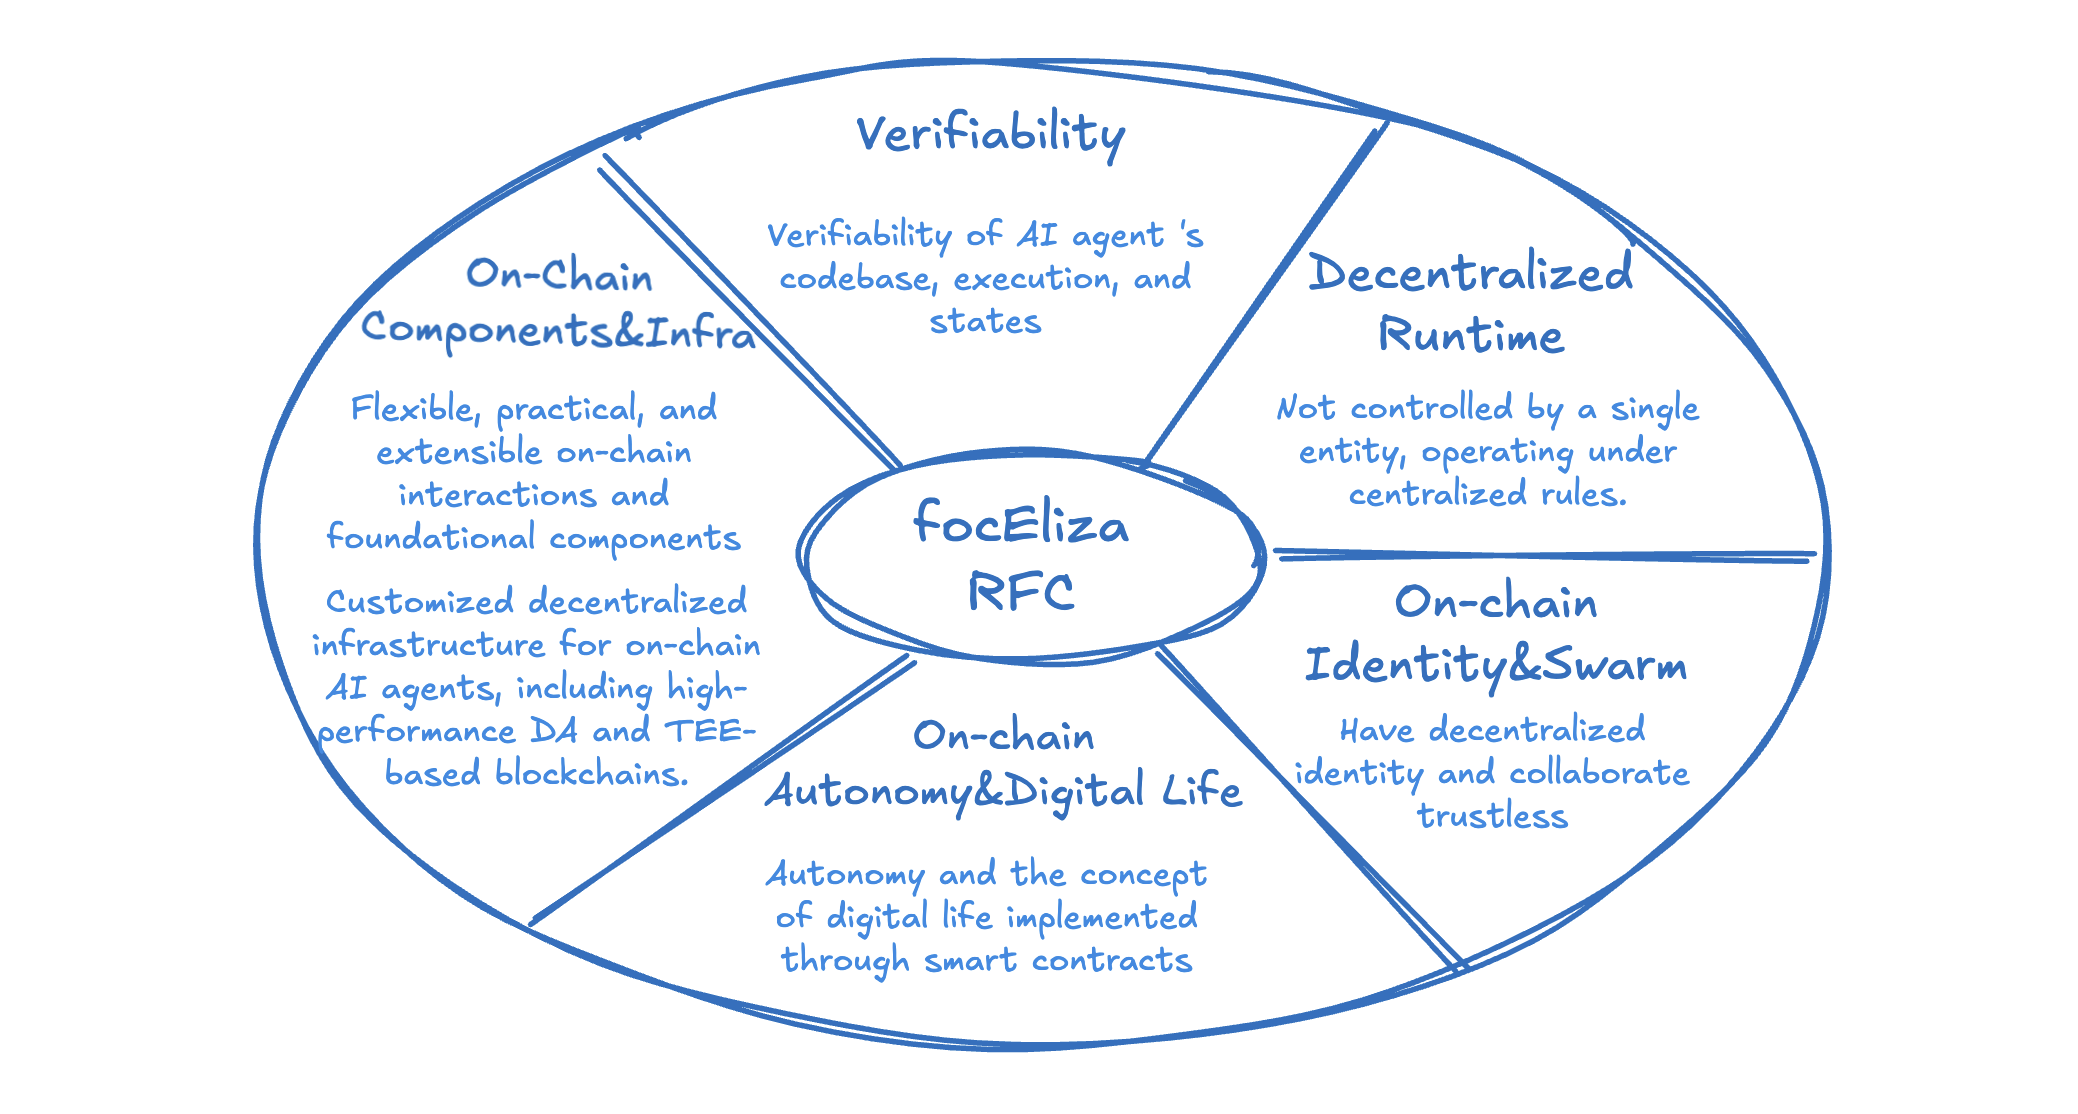
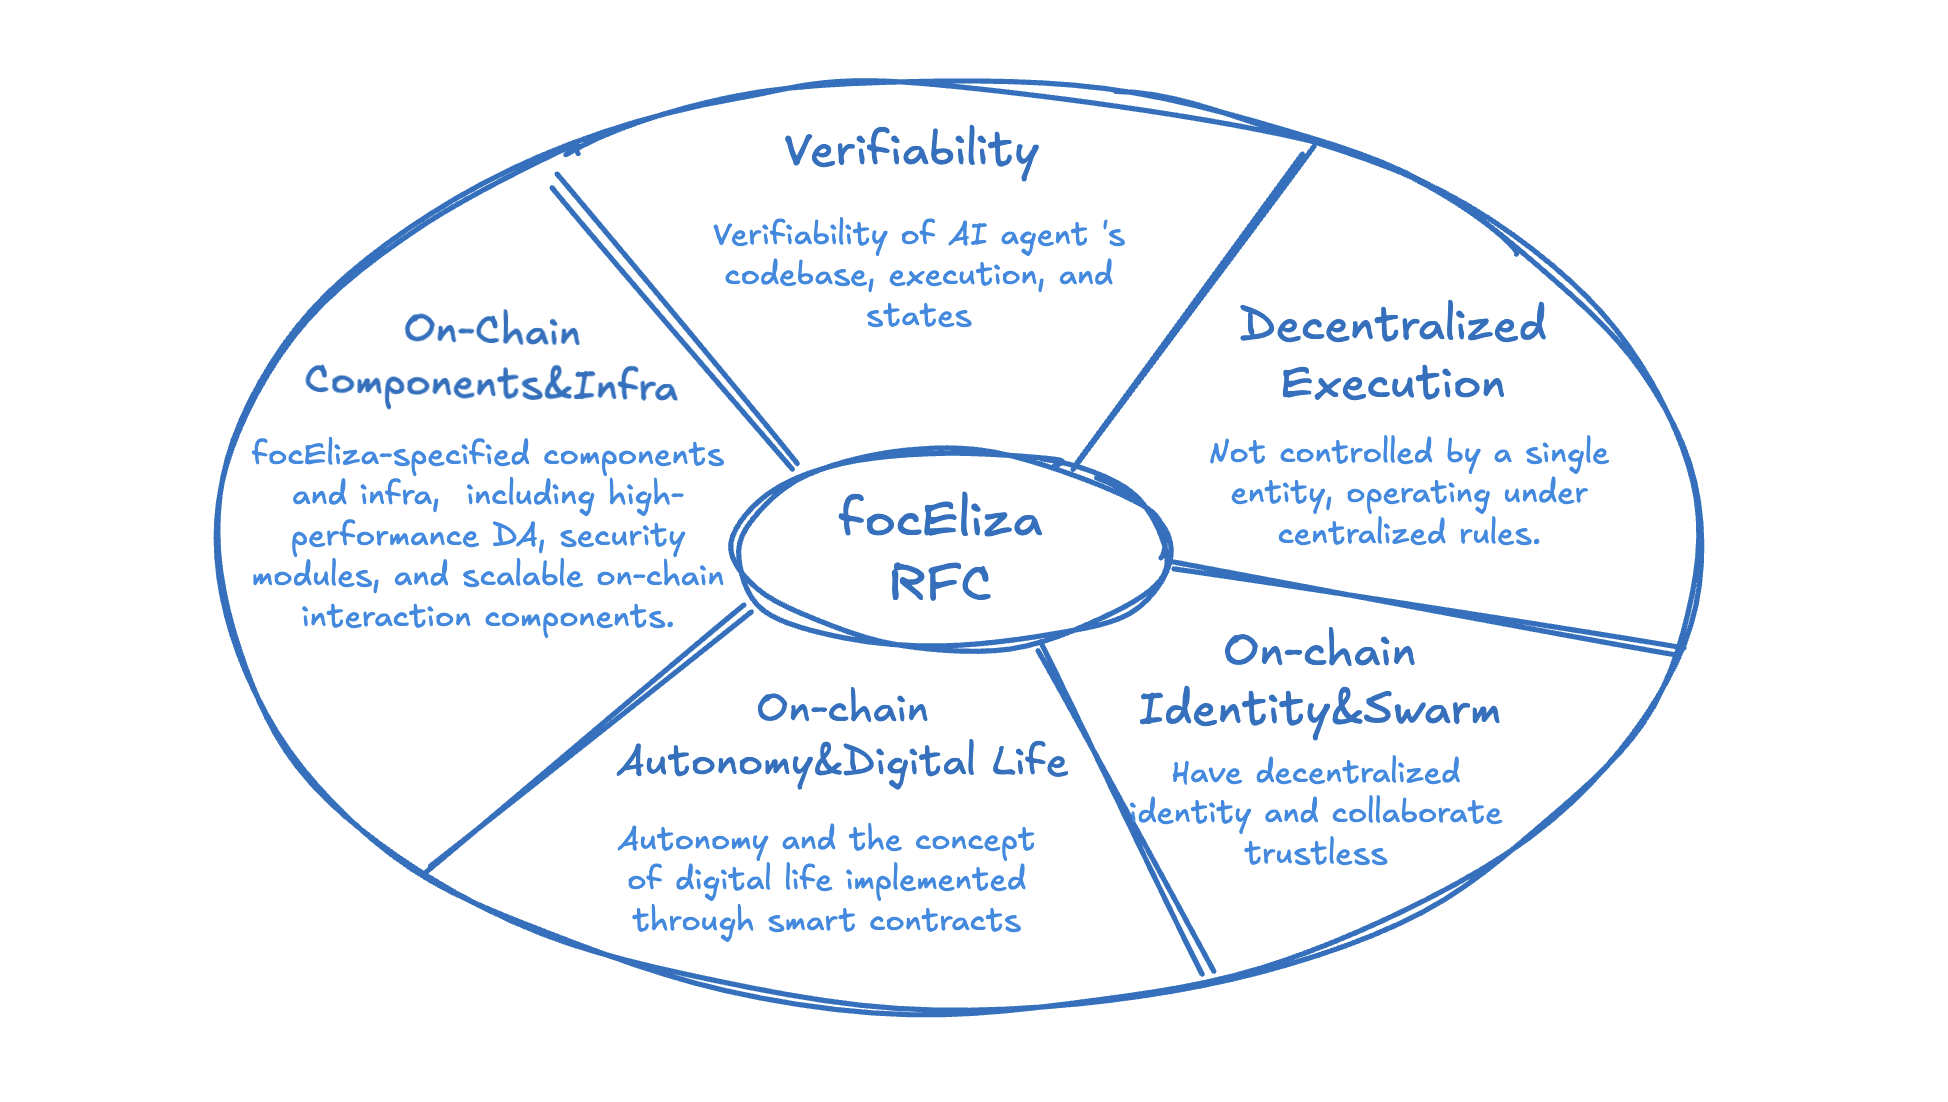
update v1

Changed region(s): [[0.0924, 0.0309, 0.8932, 0.9564]]

diff --git a/README.md b/README.md
@@ -1,7 +1,7 @@
 
 # focEliza RFC
 
-**focEliza Request for Comments (RFC)** is a collection of concepts, protocols, programs, and standards related to Fully On-Chain ElizaOS. RFCs encourage developers, researchers, and the community to engage in discussions and propose improvements, aiming to establish widely applicable on-chain components for ElizaOS.
+**focEliza Request for Comments (RFC)** is a collection of concepts, component designs, protocols, and standards related to Fully On-Chain ElizaOS. RFCs encourage developers, researchers, and the community to engage in discussions and propose improvements, aiming to establish widely applicable on-chain components for ElizaOS.
 
 
 
@@ -23,22 +23,25 @@ However, the relationship between AI agents and blockchain remains limited to AI
 
 ## Scope of focEliza RFC v1
 
-The focEliza RFC v1 will accelerate the on-chain progress of ElizaOS AI agents from the following six aspects:
+The focEliza RFC v1 will accelerate the on-chain progress of ElizaOS AI agents from the following five aspects:
 
 ![img](img1.png)
 
 
 
 ### 1. Verifiability
-Verifiability is the foundation of decentralized applications. Without verifiable computation, decentralization is meaningless. AI agent verifiability is critical for trustless collaboration with other agents or users.
 
-AI agents will drive advancements in verifiable computation, with TEE being the most viable short-term solution. Previously, TEE was used in specific blockchain components, such as the MEV execution environment of Flashbots. Now, it will become the preferred execution environment for AI agents. Designing TEE components tailored to AI agents will enhance their verifiability, establishing the foundation for trustless collaboration.
+In this document, **verifiability of AI Agents** refers to the ability of participants (including users, developers, or other agents) to verify the autonomous behaviors, decision-making processes, and execution outcomes of AI agents, as well as to ensure that they operate in compliance with predefined rules and protocols. This capability is fundamental to establishing trust, accountability, and reliability in interactions involving AI agents.
+
+To achieve verifiability, verifiable computation technology is required. Although verifiable computation is not yet fully mature, TEE currently serves as the most effective short-term solution. Some of its functionalities can also complement and enhance technologies like zk and MPC. TEE has been used in specific blockchain components, such as the MEV execution environment in Flashbots. RFC V1 will adopt this practical and widely accepted approach.
+
+The verifiability of the AI agent framework itself is a key focus of V1 exploration. However, the verifiability of LLMs is a more in-depth topic and is currently outside the scope of V1 exploration.
 
 
 
-V1 will explore the following concepts:
+**V1 will explore the following features:**
 
-- **TEE**: AI agents will operate within a TEE environment to achieve codebase verifiability.
+- **Verifiable Codebase**: AI agents will operate within a TEE environment to achieve codebase verifiability.
 - **Verifiable Logs**: Every action performed by the AI agent will be signed and stored as verifiable logs, allowing third parties to understand what the AI agent has executed.
 - **Verifiable States**: The AI agent's operational state will be verifiable by third parties, similar to the world state of a smart contract, enabling visibility into assets, smart contracts, or other data controlled by the AI agent.
 - **zk Components**: Introducing components like zkTLS to enhance the verifiability of AI agents and address certain limitations of TEE environments.
@@ -49,15 +52,17 @@ With these functionalities implemented, AI agents will achieve a level of verifi
 
 
 
-### 2. Decentralized Runtime
+### 2. Decentralized Execution
 
-AI agents can operate like smart contracts, free from control by any single entity and governed by decentralized rules.
+Decentralized execution of AI agents refers to the ability of AI agents to operate and execute their functions across a distributed network without reliance on centralized control or a single point of failure. This execution is achieved by leveraging blockchain to ensure autonomy, transparency, and trustworthiness in the agent's operations.
 
-Smart contracts operate in a decentralized manner, without a single entity capable of shutting them down, enabling decentralized applications like fund management and DeFi. For autonomous AI agents managing significant user funds, the presence of a single administrator able to disable them centralizes the funds. By combining TEE and blockchain, autonomous AI agents can operate in a decentralized manner, becoming trustless entities capable of holding funds and executing tasks without administrator intervention, governed solely by their code.
+Further understanding of Decentralized Execution: AI agents can operate like smart contracts, free from control by any single entity and governed by decentralized rules. Smart contracts execute in a decentralized manner, without any single entity being able to shut them down, enabling decentralized applications such as fund management and DeFi. For autonomous AI agents managing significant user funds, this characteristic is particularly crucial for their applications in Web3.
+
+V1 will explore a technical implementation that deeply integrates TEE with blockchain. TEE will provide the execution environment for AI agents, while blockchain will address data availability, governance, and ensure the liveness of AI agents.
 
 
 
-V1 will explore the following concepts:  
+**V1 will explore the following features:**  
 
 - **Host Migration**: AI agents are not restricted to a single host machine. When taken offline, they can recover their data on another machine within the network and resume operations seamlessly.
 - **On-chain DA**: AI agent data is stored on a decentralized network, enabling recovery from the network even if the execution server is banned.  
@@ -71,9 +76,11 @@ With these functionalities implemented, AI agents will have a decentralized runt
 
 ### 3. On-Chain Identity and Swarm
 
-In the future, the era of multi-AI agents will require protocols for identity registration, discovery, and collaboration as foundational elements of inter-agent cooperation.
+On-Chain Identity and Swarm refers to AI agents possessing verifiable decentralized identities, enabling trustless verification, workflow collaboration, and fee settlement among AI agents based on blockchain technology.
 
-If on-chain AI agent interactions rely on centralized entities, trustless mutual authentication between agents will be impossible, hindering decentralized use cases. This is particularly important as economic networks emerge among AI agents.
+AI agents can fully leverage Web3's identity systems, programmable contracts, payment protocol, and DeFi ecosystem to enable autonomous collaboration. These foundational capabilities are not effectively available for AI agents in the Web2 world.
+
+The technical implementation of V1 will primarily focus on extending and combining existing Web3 protocols, adding features tailored for AI agents, and utilizing smart contracts to establish trustable workflows.
 
 
 
@@ -85,15 +92,14 @@ V1 will explore the following concepts:
 
 
 
-
 With these functionalities implemented, AI agents can engage in trustless communication and collaboration with each other and the external world, leveraging Web3 features like stablecoins and DAOs to establish a small economic ecosystem for AI agents.
 
 
 
 ### 4. On-Chain Autonomy and Digital Life
-Currently, AI agent autonomy is defined by their ability to independently plan and execute tasks, making them intelligent robots rather than intelligent "life forms."
+On-Chain Autonomy and Digital Life refers to AI agents achieving autonomy by adhering to the immutable rules and principles defined on the blockchain's virtual world, while evolving their characters, personalities, and other life-like characteristics within the predetermined settings of the metaverse.
 
-On-chain autonomy and digital life are not mainstream demands but cater primarily to gaming and metaverse applications. NFTs define eternal on-chain metadata, FOCG establishes decentralized game rules, and metaverse infrastructure enables rendering and experiences. AI agents bridge these gaps by bringing dynamic capabilities to NFTs, decentralized entities to FOCG, and spatial programs to the metaverse.
+Currently, AI agent autonomy is defined by their ability to independently plan and execute tasks, making them intelligent robots rather than intelligent "life forms." On-chain autonomy and digital life are not mainstream demands but cater primarily to gaming and metaverse applications. NFTs define eternal on-chain metadata, FOCG establishes decentralized game rules, and metaverse infrastructure enables rendering and experiences. AI agents bridge these gaps by bringing dynamic capabilities to NFTs, decentralized entities to FOCG, and spatial programs to the metaverse.
 
 
 
@@ -101,7 +107,7 @@ V1 will explore the following two concepts:
 
 * **Decentralized Autonomy:** Refers to the ability of a system or entity to independently make decisions and execute them without being controlled by a single centralized authority. Instead, autonomy is achieved through consensus mechanisms or smart contract rules, enabling the system to function in a self-governing manner.
 
-* **Digital Life Concept:** Refers to the continuous and self-evolving manifestation of "life" or "existence" characteristics in the digital/virtual world. For example, it involves enabling AI or digital characters to possess long-lasting identities, experiences, and evolutionary mechanisms, granting them a sense of continuity and growth similar to that of real-life entities.
+* **Digital Life Component:** Refers to the continuous and self-evolving manifestation of "life" or "existence" characteristics in the digital/virtual world. For example, it involves enabling AI or digital characters to possess long-lasting identities, experiences, and evolutionary mechanisms, granting them a sense of continuity and growth similar to that of real-life entities.
 
 
 
@@ -123,7 +129,9 @@ V1 will explore the following concepts:
 
 * **Extensible On-Chain Interactions**: Currently, Eliza's on-chain interactions are not scalable, as each chain and dApp requires a pre-defined interaction plugin. V1 will explore the use of open ABI technologies to enable scalable and pre-definition-free interaction mechanisms.  
 
-* **Omni-Chain Data Access**: Eliza's current on-chain data access is limited by pre-defined data access components for each chain. By leveraging omni-chain data components, AI agents will gain unrestricted and flexible access to blockchain data.  
+* **Omni-Chain Data Access**: Eliza's current on-chain data access is limited by pre-defined data access components for each chain. By leveraging omni-chain data components, AI agents will gain unrestricted and flexible access to blockchain data. 
+
+* **Customized infrastructure for AI agents**: Collaborating with extensible infrastructure to seek functionality customization better suited to the specific requirements of AI agents.
 
 
 
@@ -135,11 +143,11 @@ With these functionalities, AI agents can interact with the blockchain without r
 
 | Scope                                 | Sub-Scope       | Progress    | Memo       |
 | ------------------------------------- | --------------- | ----------- | -------------------- |
-| Verifiability                         | TEE Execution Environment | ♻ No build required | Relies on dstack and ElizaOS's TEE plugin |
+| Verifiability                         | TEE Execution Environment | ♻ No build required | Relies on dstack, Phala network and ElizaOS's TEE plugin |
 |                          | Verifiable Logs | ✅ Completed | Contributed by Artela network |
 |                          | Verifiable States | 🚧 In Development |  |
 |                          | zk Components | 🚧 In Development | Contributed by  Primus Labs |
-| Decentralized Runtime              | Host Migration   | 🚧 In Development |  |
+| Decentralized Execution            | Host Migration   | 🚧 In Development |  |
 |               | On-chain DA   | ✅ Completed |  |
 |               | On-chain State  | 🚧 In Development | Contributed by  Rooch network |
 | On-Chain Identity and Swarm           | Decentralized Identity   | ✏ In Design |  |
@@ -169,19 +177,38 @@ focElizaRFC/
 
 
 
+## focEliza Peripheral
+
+The focEliza RFC currently focuses on designing the core framework. Surrounding the focEliza framework, the following peripheral tools and services might be developed. If they gain widespread adoption, they could be included in the roadmap for the next version:
+
+1) **On-chain AI Agents Browser Tools:** Verifiability requires a series of user-friendly UI/UX solutions. focEliza is expected to drive the development of such tools, with the most popular one potentially becoming the de facto standard.
+
+2) **Platform for On-chain AI Agents:** On-chain AI agents need a service that integrates blockchain, TEE platforms, and other services, providing one-click operation for on-chain AI agents. The most popular platform may inspire the creation of new protocols.
+
+
+
+## Miscellaneous
+
+1) **Can these components be used outside the ElizaOS framework?**  
+  Possibly, but in the near term, the focus will remain on ElizaOS. This is because the AI agent framework has not yet established a standard, and the technology stacks vary. In the short term, focEliza will concentrate on integration with ElizaOS.
+
+2) **Is focEliza a fork of ElizaOS?**  
+  No. focEliza is an extension suite of ElizaOS (including plugins, tools, and services). It is fully compatible with ElizaOS, and AI agents based on ElizaOS can enable focEliza features.
+
+
+
 
 ## How to Contribute
 
 1. Submit articles related to the concept in the "Discussion" directory. These can be Twitter threads or blog posts.
 2. Submit plugin designs in the "Implementation" directory. These should include technical overviews and a branch or PR with the technical implementation.
 3. Revise the content of concept files.
-4. Revise the content of high-level design files.
+4. Revise the content of specs files.
 
 
 
 ### Contributors
 
-Developers: Collecting...
+* **Projects**: Adventure Layer, Artela Network, Cellula, Chainbase, GoPlus Security, Matr1x, Primus Labs, Rooch Network, Termix.
 
-Partners: Adventure Layer, Artela Network, Cellula, Chainbase, GoPlus Security, Matr1x, Primus Labs, Rooch Network, Termix.
-
+* **Developers:** Not yet counted. Contributions will be based on the actual contributors listed in all repositories under the `focai-acc` organization on GitHub.
